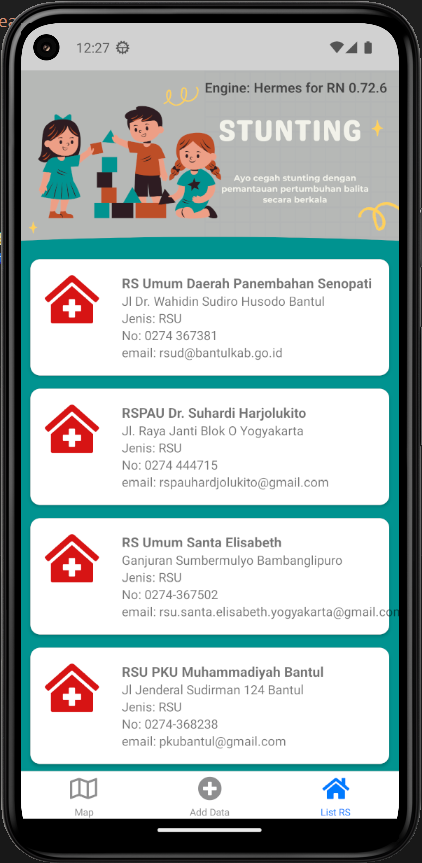
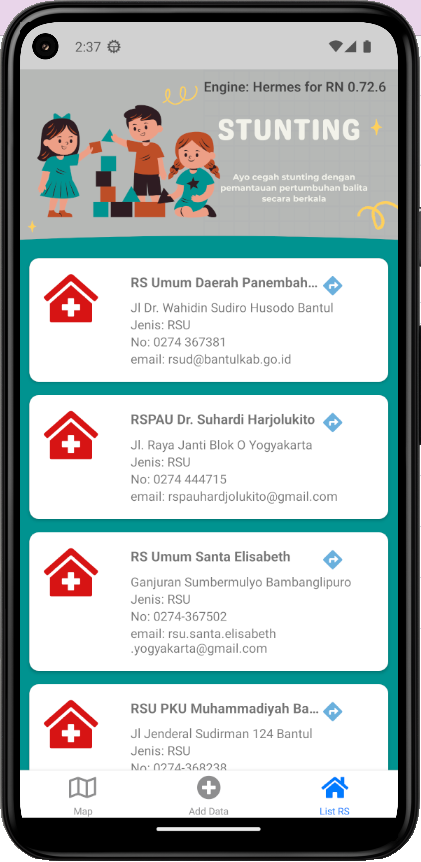
second commit

diff --git a/Listrs.js b/Listrs.js
@@ -1,16 +1,16 @@
 import React, { useState, useEffect } from 'react'
-import { View, Text, FlatList, StyleSheet } from 'react-native';
+import { View, Text, FlatList, StyleSheet, Button, Alert, Linking, TouchableOpacity } from 'react-native';
 import FontAwesome5 from 'react-native-vector-icons/FontAwesome5';
 import { SafeAreaView } from 'react-native-safe-area-context';
 import { Header } from 'react-native/Libraries/NewAppScreen';
-  
+
 
 const Listrs = () => {
-    const jsonUrl = 'https://script.google.com/macros/s/AKfycbyPWEBjHmWecdpVF2DRnnwjN-QHrhtA4GbPfxxTvd7Rl8G_Ml8nM8xp_luJHlyNNmpW/exec';
+    const jsonUrl = 'https://script.google.com/macros/s/AKfycbz1pF6S52C_9ckdUWPGSMRVwakusZBi-TNFNNFxaoE2Ngv6HjBmwIzM4F0shO_guzeE/exec';
     const [isLoading, setLoading] = useState(true);
     const [dataUser, setDataUser] = useState({});
     const [refresh, setRefresh] = useState(false);
- 
+
     useEffect(() => {
         fetch(jsonUrl)
             .then((response) => response.json())
@@ -50,20 +50,46 @@ const Listrs = () => {
                         refreshing={refresh}
                         keyExtractor={({ id }, index) => id}
                         renderItem={({ item }) => (
-                            <View style={styles.bg}>
-                            <View style={styles.card}>
-                                <View style={styles.avatar}>
-                                    <FontAwesome5 name={item.icon} size={50} color={item.color} />
+                            <TouchableOpacity
+                                accessibilityRole="button"
+                                onPress={() => {
+                                    Linking.openURL(
+                                        `google.navigation:q=${item.latitude},${item.longitude}`,
+                                    );
+                                }}
+                                style={styles.linkContainer}
+                            >
+                                <View style={styles.bg}>
+                                    <View style={styles.card}>
+                                        <View style={styles.avatar}>
+                                            <FontAwesome5 name={item.icon} size={50} color={item.color} />
+                                        </View>
+                                        <View style={{ flex: 1, flexDirection: 'column', marginLeft: 10 }}>
+                                            <View style={{ flexDirection: 'row', alignItems: 'center' }}>
+                                                <Text
+                                                    style={[
+                                                        styles.cardtitle,
+                                                        { marginBottom: 8, flex: 1, maxWidth: 200 },
+                                                    ]}
+                                                    numberOfLines={1}
+                                                    ellipsizeMode="tail"
+                                                >
+                                                    {item.name}
+                                                </Text>
+                                                <FontAwesome5
+                                                    name="directions"
+                                                    size={20}
+                                                    color="#6ab0dd"
+                                                />
+                                            </View>
+                                            <Text style={styles.text}>{item.alamat}</Text>
+                                            <Text style={styles.text}>Jenis: {item.jenis}</Text>
+                                            <Text style={styles.text}>No: {item.telpon}</Text>
+                                            <Text style={styles.text}>email: {item.email}</Text>
+                                        </View>
+                                    </View>
                                 </View>
-                                <View>
-                                    <Text style={styles.cardtitle}>{item.name}</Text>
-                                    <Text style={styles.text}>{item.alamat}</Text>
-                                    <Text style={styles.text}>Jenis: {item.jenis}</Text>
-                                    <Text style={styles.text}>No: {item.telpon}</Text>
-                                    <Text style={styles.text}>email: {item.email}</Text>
-                                </View>
-                            </View>
-                            </View>
+                            </TouchableOpacity>
                         )}
                     />
                 </View>
